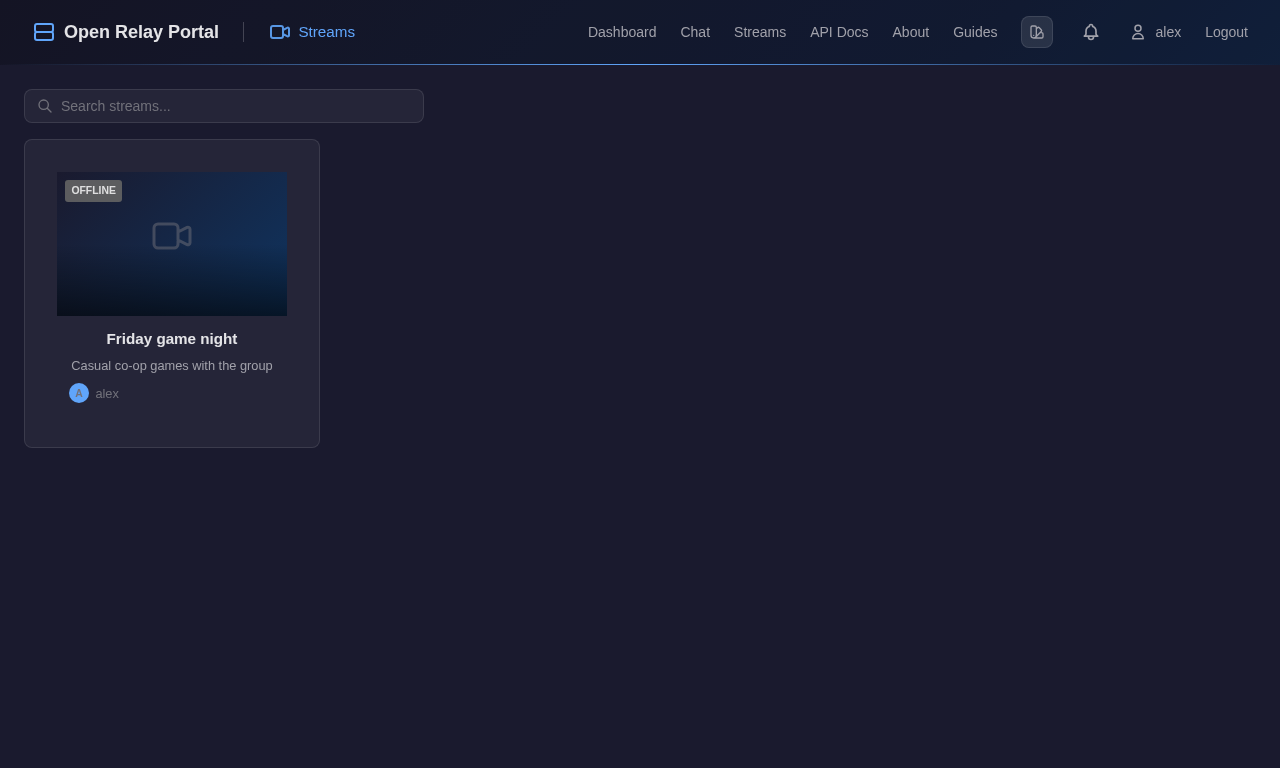
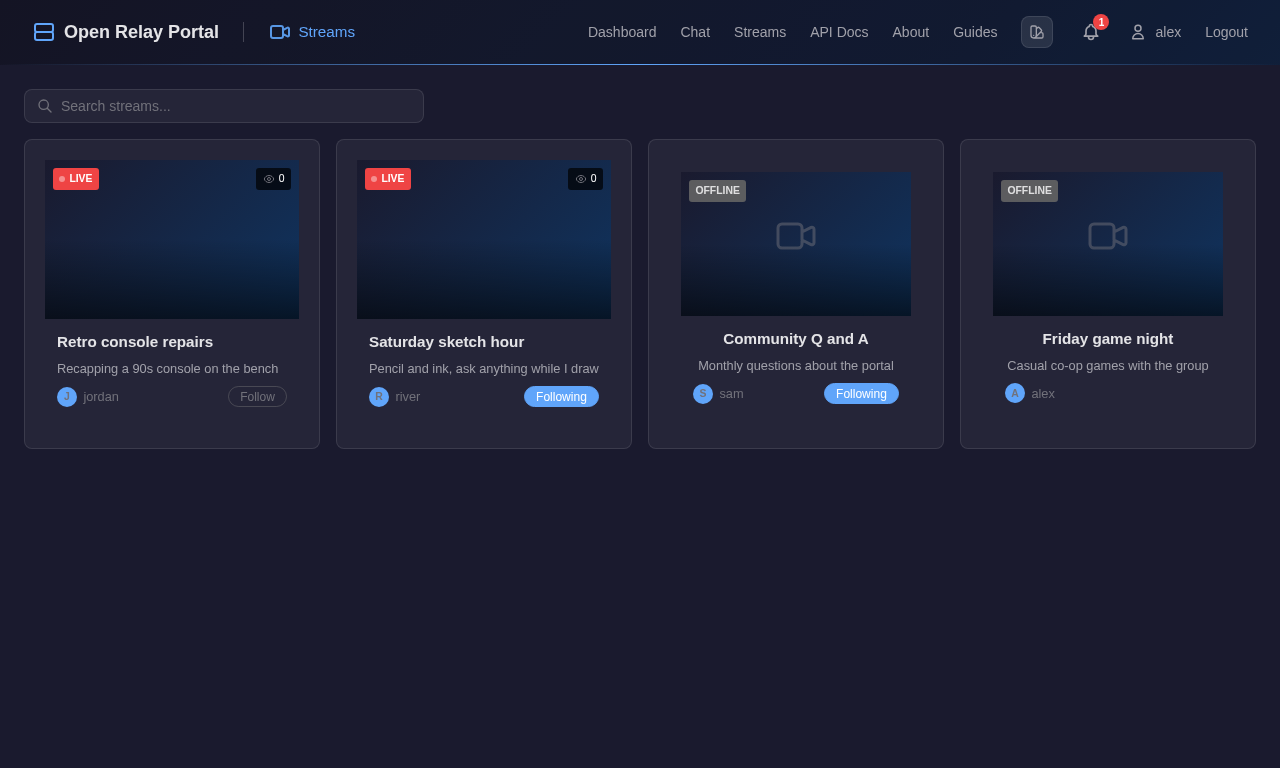
Docs: screenshots of the stream settings, the streams page with follows and the go-live cards in chat; the staging script seeds live streams

diff --git a/tools/make_screenshots.py b/tools/make_screenshots.py
@@ -483,7 +483,10 @@ async def seed_operations(stage: Stage, clients: dict) -> dict:
         "name": "Workshop camera", "description": "Members only, the 3D printer bench", "is_public": False})
     pub_id = (pub.get("stream") or pub)["id"]
     priv_id = (priv.get("stream") or priv)["id"]
-    await alex.api("PUT", f"/api/streams/{pub_id}", {"allow_unauthenticated": True})
+    await alex.api("PUT", f"/api/streams/{pub_id}", {
+        "allow_unauthenticated": True,
+        "golive_message": "{streamer} is live: {title}. Come and hang out!",
+        "golive_audience": "followers"})
     out["streams"] = {"public": pub_id, "private": priv_id}
 
     # personal connections of different types. The portal refuses documentation addresses as
@@ -827,8 +830,21 @@ def _guides_detail(s):
 
 @shot("streams")
 def _streams(s):
-    page = s.open(s.context("alex"), "/streams", ".stream-card, .streams-grid, #my-streams")
+    # as alex: other members' public streams with the Follow toggle, two of them live
+    page = s.open(s.context("alex"), "/streams", ".stream-follow-btn", settle=1500)
     s.save("streams", page)
+
+
+@shot("chat-golive")
+def _chat_golive(s):
+    # the go-live cards in the announce channel (general) and the live-now strip above the chat
+    page = chat_page(s)
+    page.wait_for_selector(".stream-card-msg", timeout=15000)
+    page.wait_for_selector("#live-now-strip a", timeout=15000)
+    page.evaluate("""() => { const box = document.getElementById('chat-messages');
+        box.scrollTop = box.scrollHeight; window.scrollTo(0, 0); }""")
+    page.wait_for_timeout(800)
+    s.save("chat-golive", page)
 
 
 @shot("streams-settings")
@@ -1244,6 +1260,51 @@ def main(argv=None) -> int:
     return rc
 
 
+async def seed_golive(stage: Stage, clients: dict) -> dict:
+    """Streams of other members, follows, and two streams that go live (1.16.0).
+
+    The go-live is the real path: the MediaMTX publish hook POST /api/stream/auth, called from
+    loopback with the stream's own key (there is no MediaMTX, OBS or video: the stream is only
+    marked live). The announce channel is `general`, so the go-live cards appear in the chat
+    picture. Run after the chat messages were given their times, so the cards are the newest."""
+    admin, alex = clients[ADMIN_NAME], clients["alex"]
+    chans = {c["name"]: c["id"] for c in (await admin.api("GET", "/api/chat/channels"))["channels"]}
+    await admin.api("PUT", "/api/settings/permissions", {"stream_announce_channel_id": chans["general"]})
+
+    made = {}
+    for owner, name, desc in [
+        ("river", "Saturday sketch hour", "Pencil and ink, ask anything while I draw"),
+        ("jordan", "Retro console repairs", "Recapping a 90s console on the bench"),
+        ("sam", "Community Q and A", "Monthly questions about the portal"),
+    ]:
+        r = await clients[owner].api("POST", "/api/streams", {"name": name, "description": desc, "is_public": True})
+        made[owner] = r.get("stream") or r
+    # alex follows two of them (the toggle shows Following), casey one
+    await alex.api("PUT", f"/api/streams/{made['river']['id']}/follow")
+    await alex.api("PUT", f"/api/streams/{made['sam']['id']}/follow")
+    await clients["casey"].api("PUT", f"/api/streams/{made['jordan']['id']}/follow")
+
+    hook = aiohttp.ClientSession(connector=aiohttp.TCPConnector(ssl=False), timeout=aiohttp.ClientTimeout(total=30))
+    try:
+        for owner in ("river", "jordan"):
+            key = made[owner]["stream_key"]
+            r = await hook.post(f"{stage.direct}/api/stream/auth",
+                                json={"action": "publish", "path": "live/" + key, "password": key, "ip": "127.0.0.1"})
+            if r.status != 200:
+                raise Fail(f"publish hook for {owner}'s stream answered {r.status}")
+    finally:
+        await hook.close()
+    # the announcement runs in the background: wait for both cards in the announce channel
+    for _ in range(40):
+        msgs = (await alex.api("GET", f"/api/chat/channels/{chans['general']}/messages?limit=50")).get("messages", [])
+        if len([m for m in msgs if m.get("message_type") == "stream_card"]) >= 2:
+            break
+        await asyncio.sleep(0.25)
+    else:
+        raise Fail("the go-live cards did not appear in the announce channel")
+    return {"golive": {k: v["id"] for k, v in made.items()}}
+
+
 async def seed_everything(stage: Stage) -> dict:
     admin = Client(stage, ADMIN_NAME)
     clients: dict = {ADMIN_NAME: admin}
@@ -1254,6 +1315,7 @@ async def seed_everything(stage: Stage) -> dict:
         info.update(await seed_operations(stage, clients))
         spread_timestamps(stage)
         mark_index_complete(stage)
+        info.update(await seed_golive(stage, clients))
         return info
     finally:
         for c in clients.values():
